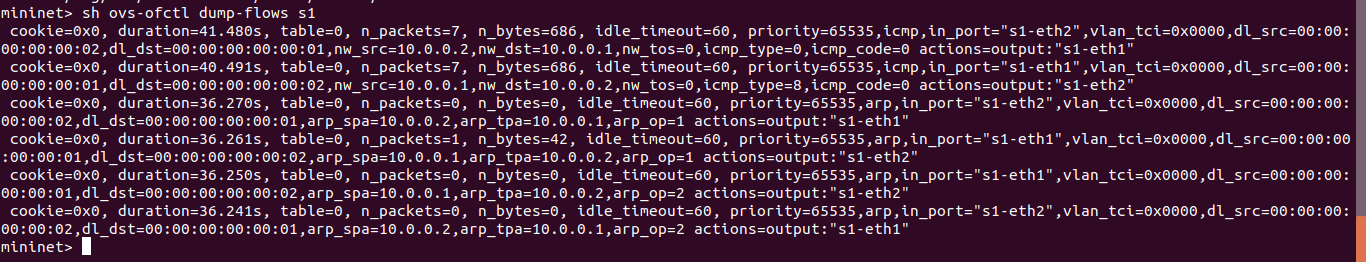
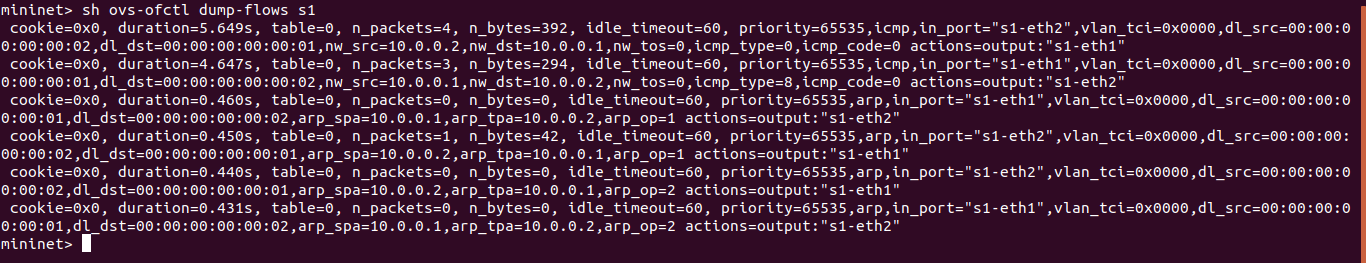
update week6.md

diff --git a/LUONGTD/Open-vSwitch/week6.md b/LUONGTD/Open-vSwitch/week6.md
@@ -284,57 +284,36 @@ Ta thấy, ARP rule đã được đưa thêm vào flow table. Output port là c
 
 ![](images/Labs/Mininet/2_6.png)
 
-#### Sử dụng tcpdump ở chế độ background để bắt gói tin ping từ h1 sang h2
-- Khởi động tcpdump ở chế độ background trên trình shell chính của Linux, lắng nghe trên cổng loopback.
-Command: ```tcp-dump -s0 -i lo -w /tmp/h1pingh2.pcap &```
-
-![](images/Labs/Mininet/2_7.png)
+#### Sử dụng Wireshark để bắt gói tin ping từ h1 sang h2
+- Khởi động Wireshark trên trình shell chính của Linux, lắng nghe trên cổng loopback.
+Command: ```sudo wireshark```
 
 - ping từ **h1** sang **h2** trên shell của mininet: ```h1 ping -c5 h2```
 
 ![](images/Labs/Mininet/2_8.png)
 
-- Kill tiến trình tcpdump trên shell chính của Linux: 
-
-![](images/Labs/Mininet/2_9.png)
-
 #### Dump flow table của switch
 
 ![](images/Labs/Mininet/2_10.png)
 
-#### Mở file tcpdump đã ghi được
-Command: ```root@luongtd:~# tshark -tad -n -r /tmp/h1pingh2.pcap```
+#### Quan sát các gói tin wireshark đã bắt được
 
-```sh
-...
-   25 2018-10-04 20:11:39,309460    127.0.0.1 → 127.0.0.1    OpenFlow 146 Type: OFPT_FLOW_MOD
-   26 2018-10-04 20:11:39,313893     10.0.0.2 → 10.0.0.1     OpenFlow 188 Type: OFPT_PACKET_OUT
-   27 2018-10-04 20:11:39,314261    127.0.0.1 → 127.0.0.1    TCP 66 55766 → 6653 [ACK] Seq=265 Ack=357 Win=94 Len=0 TSval=956172530 TSecr=956172525
-   28 2018-10-04 20:11:40,297825     10.0.0.1 → 10.0.0.2     OpenFlow 182 Type: OFPT_PACKET_IN
-   29 2018-10-04 20:11:40,298621    127.0.0.1 → 127.0.0.1    OpenFlow 146 Type: OFPT_FLOW_MOD
-   30 2018-10-04 20:11:40,308634     10.0.0.1 → 10.0.0.2     OpenFlow 188 Type: OFPT_PACKET_OUT
-   31 2018-10-04 20:11:40,308950    127.0.0.1 → 127.0.0.1    TCP 66 55766 → 6653 [ACK] Seq=381 Ack=559 Win=94 Len=0 TSval=956173524 TSecr=956173514
-   32 2018-10-04 20:11:44,518353 00:00:00:00:00:02 → 00:00:00:00:00:01 OpenFlow 126 Type: OFPT_PACKET_IN
-   33 2018-10-04 20:11:44,518451 00:00:00:00:00:01 → 00:00:00:00:00:02 OpenFlow 126 Type: OFPT_PACKET_IN
-   34 2018-10-04 20:11:44,519042    127.0.0.1 → 127.0.0.1    OpenFlow 146 Type: OFPT_FLOW_MOD
-   35 2018-10-04 20:11:44,528210 00:00:00:00:00:02 → 00:00:00:00:00:01 OpenFlow 132 Type: OFPT_PACKET_OUT
-   36 2018-10-04 20:11:44,528556    127.0.0.1 → 127.0.0.1    TCP 66 55766 → 6653 [ACK] Seq=501 Ack=705 Win=94 Len=0 TSval=956177744 TSecr=956177734
-   37 2018-10-04 20:11:44,528815    127.0.0.1 → 127.0.0.1    OpenFlow 146 Type: OFPT_FLOW_MOD
-   38 2018-10-04 20:11:44,529695 00:00:00:00:00:01 → 00:00:00:00:00:02 OpenFlow 126 Type: OFPT_PACKET_IN
-   39 2018-10-04 20:11:44,538039 00:00:00:00:00:01 → 00:00:00:00:00:02 OpenFlow 132 Type: OFPT_PACKET_OUT
-   40 2018-10-04 20:11:44,538620    127.0.0.1 → 127.0.0.1    OpenFlow 146 Type: OFPT_FLOW_MOD
-   41 2018-10-04 20:11:44,539060    127.0.0.1 → 127.0.0.1    TCP 66 55766 → 6653 [ACK] Seq=561 Ack=931 Win=94 Len=0 TSval=956177754 TSecr=956177753
-   42 2018-10-04 20:11:44,539987 00:00:00:00:00:02 → 00:00:00:00:00:01 OpenFlow 126 Type: OFPT_PACKET_IN
-   43 2018-10-04 20:11:44,547971 00:00:00:00:00:01 → 00:00:00:00:00:02 OpenFlow 132 Type: OFPT_PACKET_OUT
-   44 2018-10-04 20:11:44,548562    127.0.0.1 → 127.0.0.1    OpenFlow 146 Type: OFPT_FLOW_MOD
-...
-```
-Ta thấy các frame 25, 29, 34, 37, 40, 44 là các bản tin tương ứng hành động add-flow của controller để tạo ra 6 flow entry như kết quả dump-flow table ở trên.
+![](images/Labs/Mininet/ws1.png)
 
-- Mở frame 25 - là frame đã add entry đầu tiên vào switch.
-Command: ```tshark -tad -n /tmp/h1pingh2.pcap/ -Y 'frame.number == 25'```
+Ta thấy các frame 316, 320, 331, 334, 337, 341 là các bản tin tương ứng hành động add-flow của controller để tạo ra 6 flow entry như kết quả dump-flow table ở trên.
 
-![](images/Labs/Mininet/2_11.png)
+- Mở frame 316 - là frame đã add entry đầu tiên vào switch.
 
+![](images/Labs/Mininet/ws2.png)
+
+#### Đợi sau hơn 60s ping lại từ h1 sang h2
+
+- Thời gian reply đầu tiên (một lần nữa) mất nhiều thời gian hơn bởi vì gói tin đã đi theo đường (h1–> s1–> c1–> s1–> h2) giống như ở bước 1.
+- Giá trị ```Idle time-out``` (60s), cho biết thời gian bao lâu kể từ khi bắt được gói tin thì flow sẽ bị inactive. Vì vậy, khi ta ping lại giữa hai host sau 60s thì flow phải được thiết lập lại.
+- Thử ping lại ngay sau thao tác ping trên:
+
+![](images/Labs/Mininet/2_12.png)
+
+Thời gian reply đầu tiên không quá lâu như lần ping trước đó vì flow trên vẫn còn "hiệu lực".
 
 ### <a name="3"></a> 0.3. 
